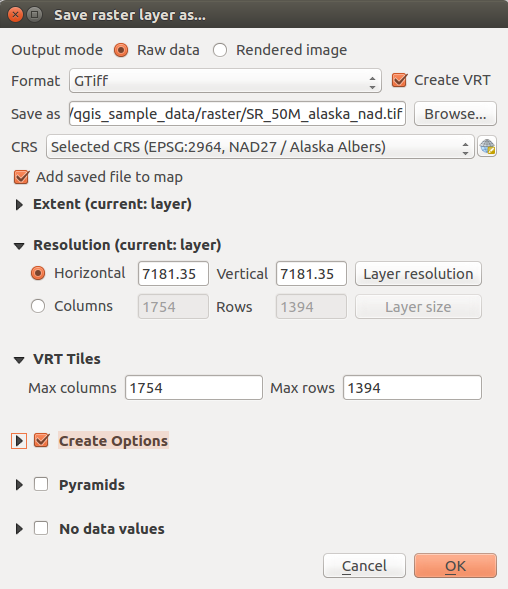
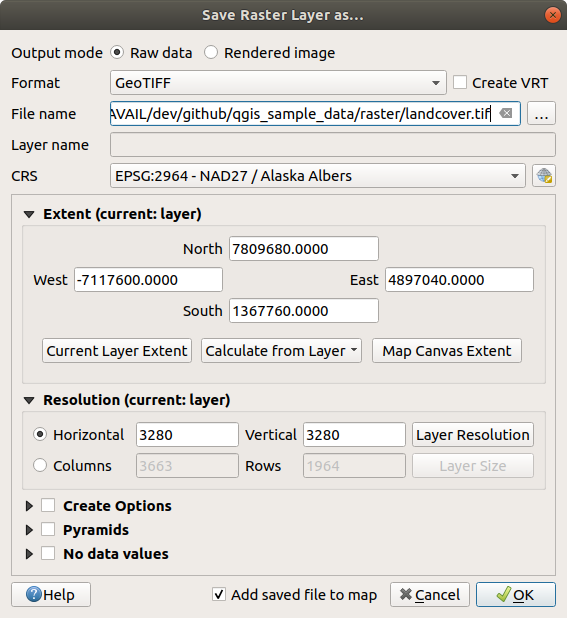
Expand description on "save layer as" dialog
with details on some parameters regarding database-like formats and fix mispelled options
Move down "Add file to map" option
Harmonize some indices

diff --git a/source/docs/user_manual/managing_data_source/create_layers.rst b/source/docs/user_manual/managing_data_source/create_layers.rst
@@ -234,11 +234,14 @@ The :guilabel:`Save Layer as...` dialog shows several parameters to change the
 behavior when saving the layer. Among the common parameters for raster and vector
 are:
 
-* :guilabel:`File name`
+* :guilabel:`File name`: the location of the file on the disk. It can refer to
+  the output layer or to a container that would store the layer (in case for
+  example of database-like files such as GeoPackage, SpatiaLite, Open Document
+  Spreadsheets... formats)
 * :guilabel:`CRS`: can be changed to reproject the data
-* :guilabel:`Add saved file to map`: to add the new layer to the canvas
 * :guilabel:`Extent` (possible values are **layer**, **Map view** or
   **user-defined** extent)
+* :guilabel:`Add saved file to map`: to add the new layer to the canvas
 
 However, some parameters are specific to raster and vector formats:
 
@@ -275,7 +278,8 @@ Depending on the format of export, some of these options are available or not:
 * :guilabel:`Format`: exports to any vector format GDAL can write to, such as
   GeoPackage, ESRI Shapefile, AutoCAD DXF, ESRI FileGDB, Mapinfo TAB or MIF,
   SpatiaLite, CSV, KML, ODS...
-* :guilabel:`Layer name` depending on the selected format
+* :guilabel:`Layer name`: available when the :guilabel:`File name` refers to a
+  container-like file, this entry represents the output layer
 * :guilabel:`Encoding`
 * :guilabel:`Save only selected features`
 * :guilabel:`Select fields to export and their export options`. In case you set
@@ -299,7 +303,7 @@ Depending on the format of export, some of these options are available or not:
 .. note:: *OGR Feature Styles* are a way to store style directly in
      the data as a hidden attribute. Only some formats can handle this kind of
      information. KML, DXF and TAB file formats are such formats. For advanced
-     users, you can read the `OGR Feature Styles specification
+     details, you can read the `OGR Feature Styles specification
      <https://gdal.org/user/ogr_feature_style.html>`_ document.
 
 * :guilabel:`Geometry`: you can configure the geometry capabilities of the
@@ -320,9 +324,10 @@ Depending on the format of export, some of these options are available or not:
   geometry (point, line, polygon), so that geometries can then be manually added
   to rows with the |addPart| :sup:`Add Part` tool.
 
-* :guilabel:`Datasources Options`, :guilabel:`Layer Options` or
-  :guilabel:`Custom Options` which allow you to configure some advanced
-  parameters. See the `gdal-ogr <https://www.gdal.org>`_ driver documentation.
+* :guilabel:`Datasource Options`, :guilabel:`Layer Options` or
+  :guilabel:`Custom Options` which allow you to configure advanced parameters
+  depending on the output format. Some are exposed in :ref:`supported_format`
+  but for full details, see the `GDAL <https://www.gdal.org>`_ driver documentation.
 
 .. _figure_save_vector:
 

diff --git a/source/docs/user_manual/managing_data_source/supported_data.rst b/source/docs/user_manual/managing_data_source/supported_data.rst
@@ -505,34 +505,27 @@ Usage
   number of features that were updated. Then you'll be able to load the
   map and see the difference (Figure_vector_crossing_map_).
 
-.. index:: Spatialite, SQLite
+.. index:: SpatiaLite, SQLite
 .. _spatialite_data:
 
 SpatiaLite Layers
 -----------------
 
 If you want to save a vector layer to SpatiaLite format, you can do this by
-right clicking the layer in the legend. Then, click on :menuselection:`Save as...`,
-define the name of the output file, and select 'SpatiaLite' as format and the CRS.
-Also, you can select 'SQLite' as format and then add ``SPATIALITE=YES`` in the
-OGR data source creation option field. This tells OGR to create a SpatiaLite
-database. See also https://www.gdal.org/ogr/drv_sqlite.html.
+following instructions at :ref:`general_saveas`. You would need to select
+``SpatiaLite`` as :guilabel:`Format` and enter both :guilabel:`File name` and
+:guilabel:`Layer name`.
 
-QGIS also supports editable views in SpatiaLite.
+Also, you can select ``SQLite`` as format and then add ``SPATIALITE=YES`` in the
+:guilabel:`Custom Options --> Data source` field. This tells GDAL to create
+a SpatiaLite database. See also https://gdal.org/drivers/vector/sqlite.html.
+
+QGIS also supports editable views in SpatiaLite. For SpatiaLite data management,
+you can also use core plugin :ref:`DB Manager <dbmanager>`.
 
 If you want to create a new SpatiaLite layer, please refer to section
 :ref:`vector_create_spatialite`.
 
-.. index:: QSpatiaLite, Spatialite manager, DB Manager
-
-.. _tip_spatialite_management_plugin:
-
-.. tip:: **SpatiaLite data management Plugins**
-
- For SpatiaLite data management, you can also use several Python plugins:
- QSpatiaLite, SpatiaLite Manager or :ref:`DB Manager <dbmanager>` (core plugin,
- recommended). If necessary, they can be downloaded and installed with the
- Plugin Installer.
 
 .. index:: DB2 Spatial
 .. _label_db2_spatial:

diff --git a/source/docs/user_manual/managing_data_source/opening_data.rst b/source/docs/user_manual/managing_data_source/opening_data.rst
@@ -509,7 +509,8 @@ geometry type. The loaded layers will contain all the data of that geometry type
 in the file and keep the :file:`osm` file data structure.
 
 
-.. index:: Spatialite, SQLite
+.. index::
+   pair: SpatiaLite; SQLite
 .. _label_spatialite:
 
 SpatiaLite Layers
